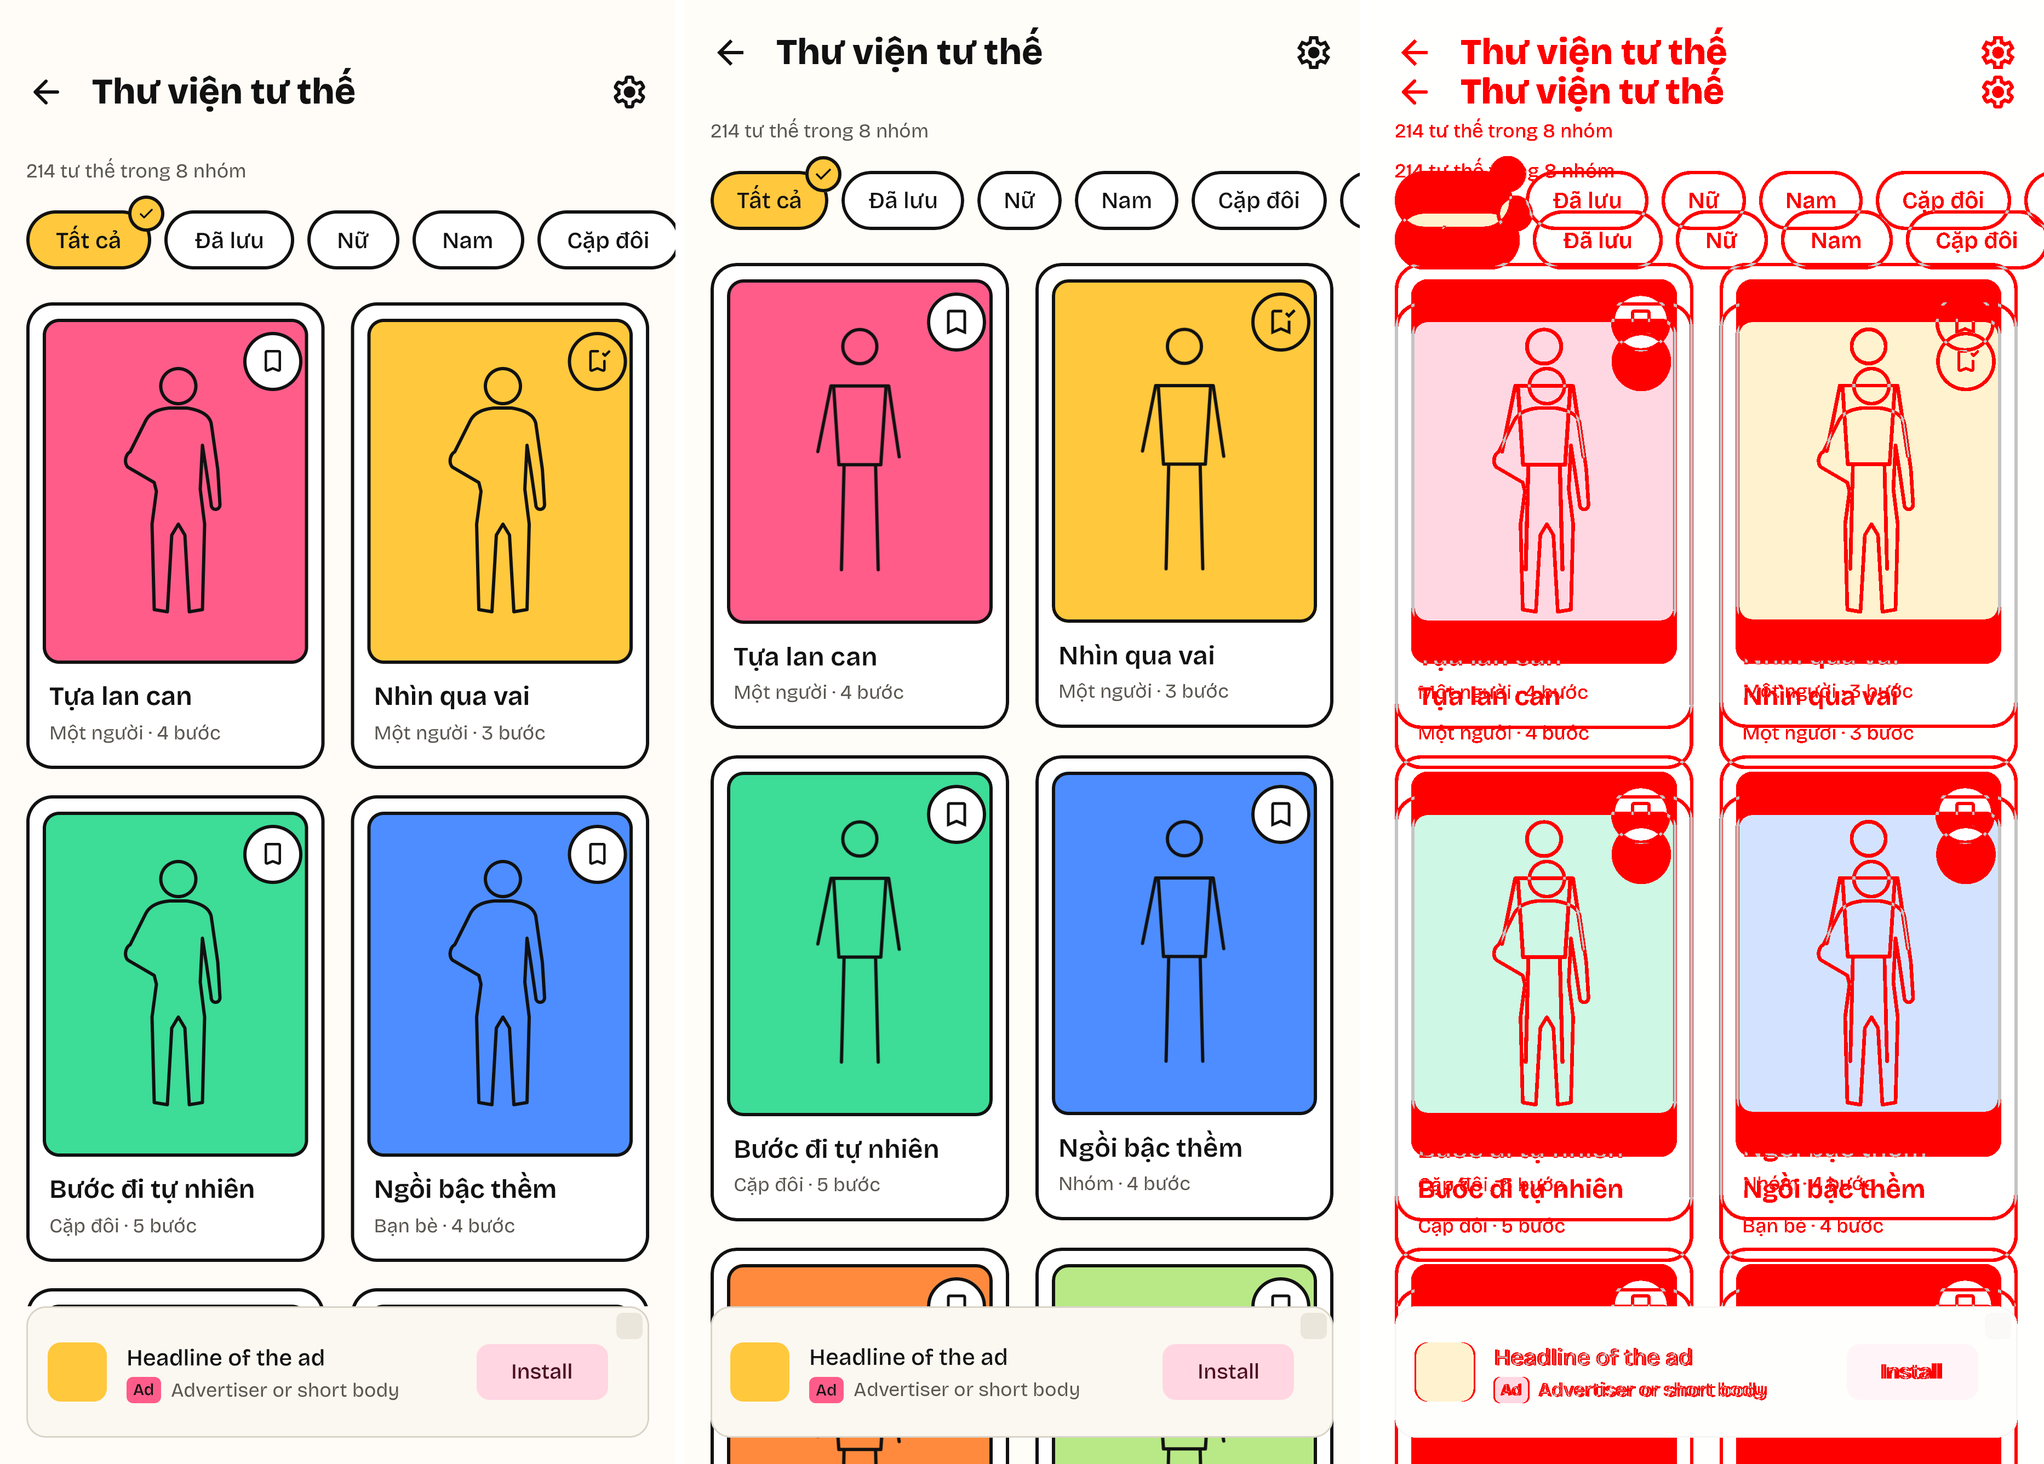
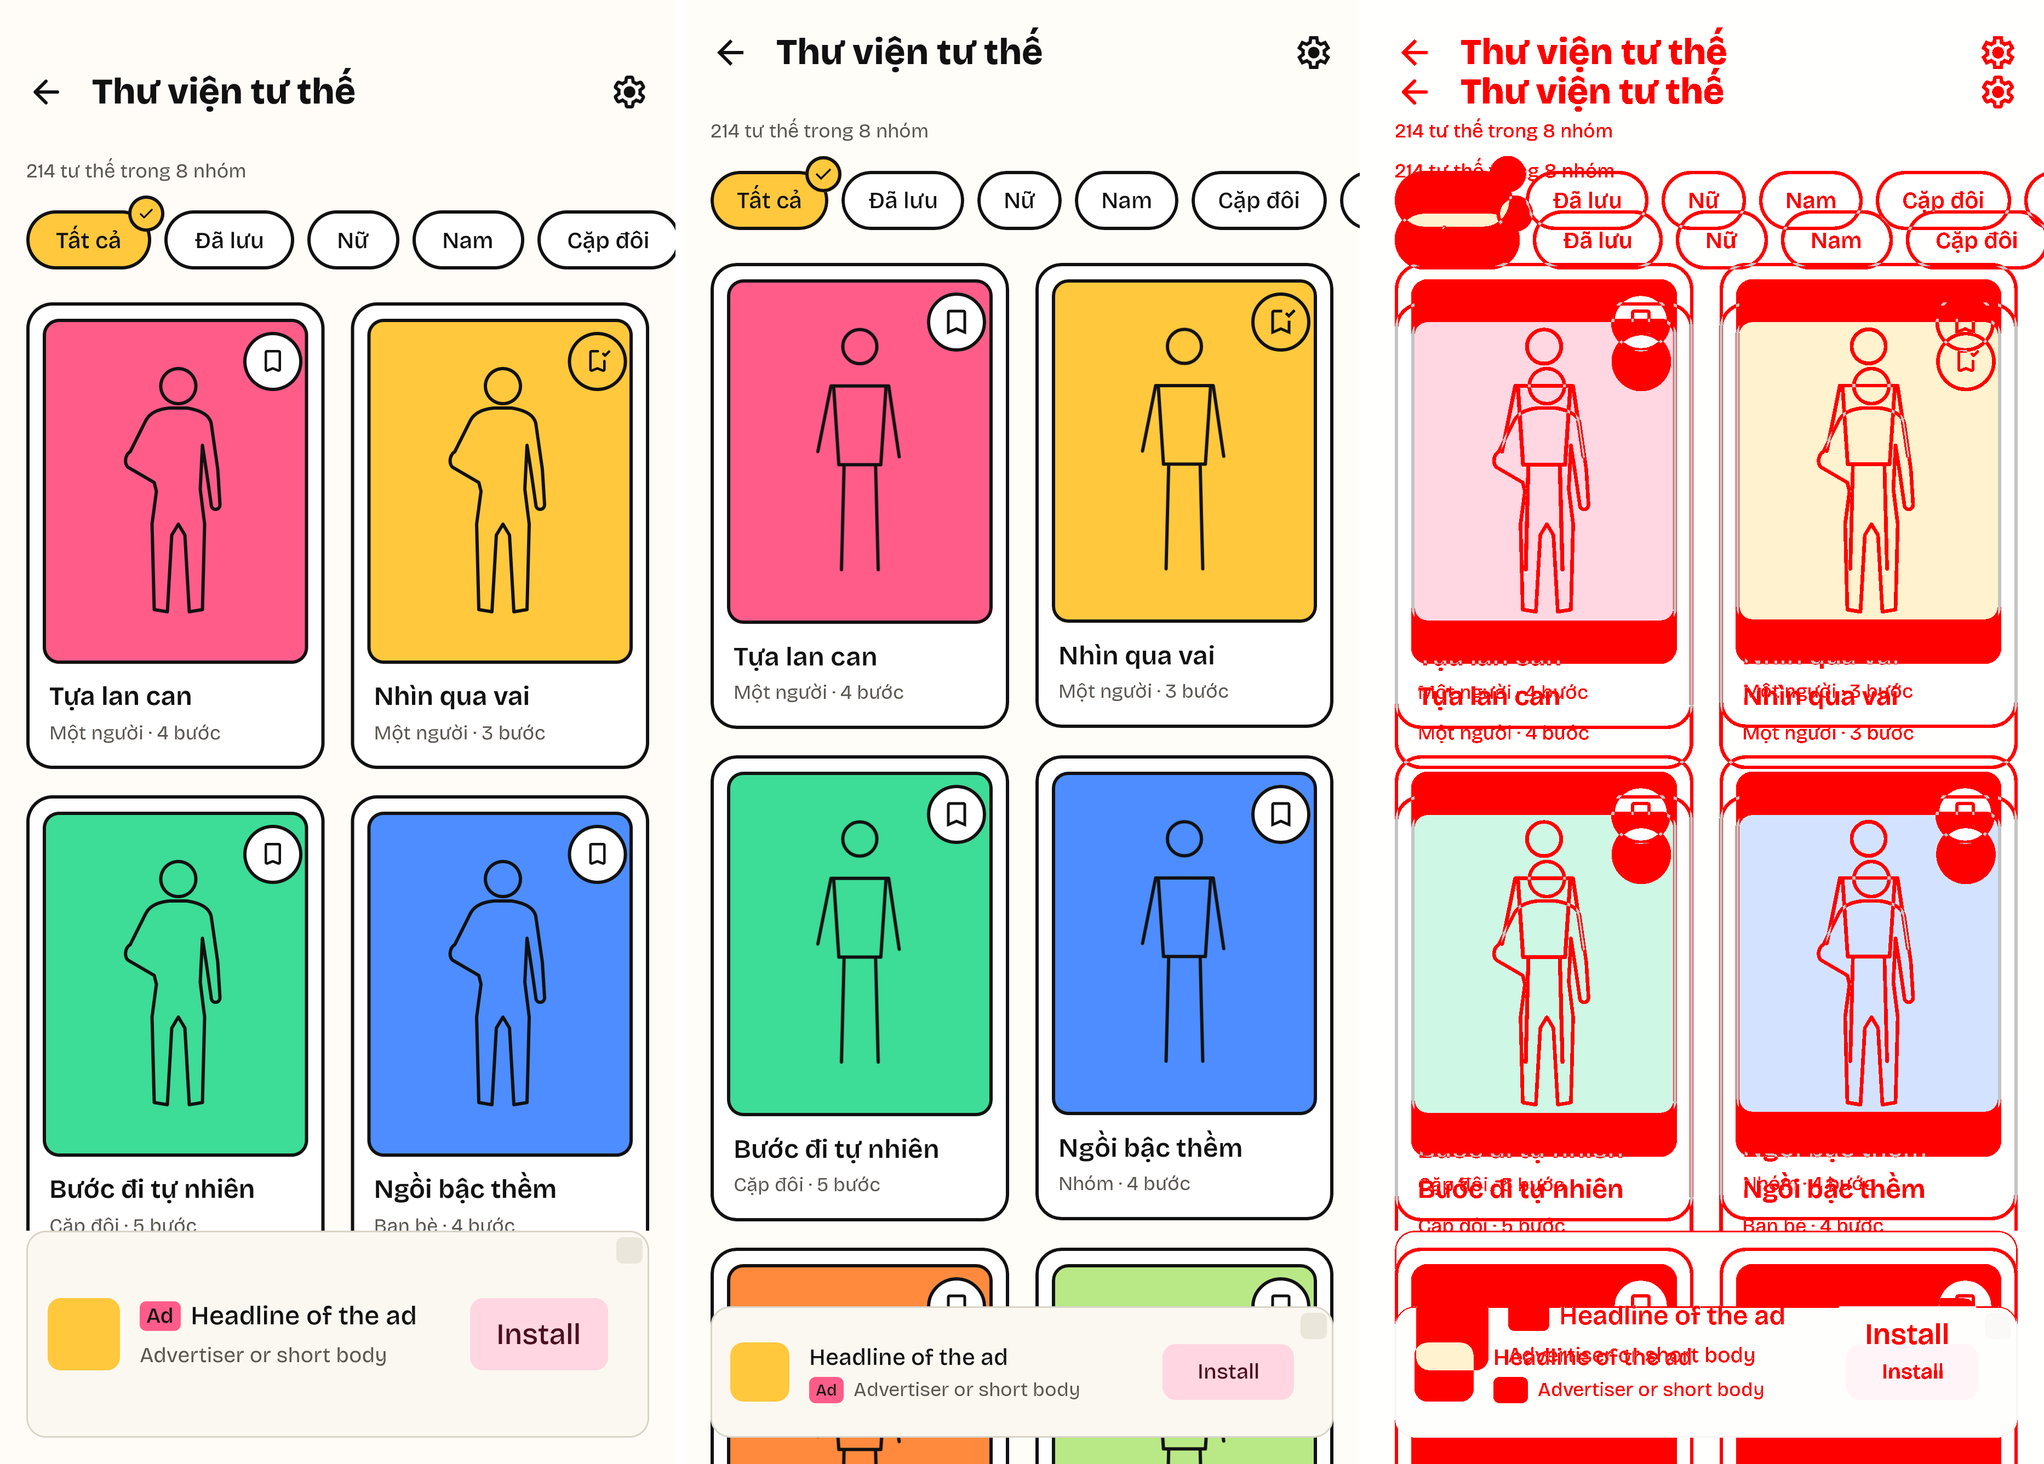
Thiết kế trạng thái ad theo thẻ native nhỏ mới của khung (T-098)
Component NativeAdSmall trên Figma theo Native/Small của dự án mẫu (khe 126 dp,
200 dp khi mở gập); xuất lại 8 frame ad của poses, settings, camera; README và
review/ cập nhật; Nhật duyệt.

diff --git a/docs/features/poses/design/README.md b/docs/features/poses/design/README.md
@@ -6,7 +6,7 @@ tool: figma
 link: https://www.figma.com/design/ZTXse6375eT3KXDUJPBTpe/?node-id=20-23
 designer: AI (Claude), Nhật
 approved_by: Nhật
-approved_at: 2026-10-31
+approved_at: 2026-11-16
 ---
 
 # THIẾT KẾ: THƯ VIỆN TƯ THẾ VÀ CHI TIẾT TƯ THẾ
@@ -37,7 +37,7 @@ Hộp thoại mất mạng thuộc gói `network`.
 
 **Frame hộp thoại mở khóa.** Khung 411 x 891 (để `scripts/figma-export.py` xuất được), nền `background` trơn, chỉ có thẻ hộp thoại ở giữa: không vẽ màn phía sau, không lớp mờ, giống ảnh chuẩn `RewardedAdDialog_default_*` của `:core:ads`. Thẻ thật rộng 312, cao 288, ở (50, 302). Tên frame có `Screen` (`PoseUnlockDialogScreen_*`, như `NetworkDialogScreen_*`) vì script chỉ nhận tên dạng `<Ten>Screen_<trạng thái>_<light|dark>`; plan T-086 đề xuất `PoseUnlockDialog_default_*`, nên plan đổi tên ảnh chuẩn theo.
 
-Từ T-079 (câu hỏi 5 của spec, 2026-10-30), trạng thái `ad` vẽ thanh đáy native nhỏ của khung thay banner 320 x 50. `PosesScreen_ad-collection_light` là lưới cuộn tới tư thế thứ 7: hàng thứ năm có ô quảng cáo (sau 8 tư thế) và tư thế thứ 9; frame này không vẽ thanh đáy, để thấy riêng thẻ quảng cáo cạnh thẻ tư thế. Tên tư thế trên frame này chỉ để minh họa.
+Thiết kế trạng thái `ad` vẽ lại ngày 2026-11-16 theo thẻ native nhỏ mới của khung (component `Native/Small` của dự án mẫu): khe 126 ở khung chuẩn thay khe 80; Nhật duyệt trong phiên ("Duyệt"). Từ T-079 (câu hỏi 5 của spec, 2026-10-30), trạng thái `ad` vẽ thanh đáy native nhỏ của khung thay banner 320 x 50. `PosesScreen_ad-collection_light` là lưới cuộn tới tư thế thứ 7: hàng thứ năm có ô quảng cáo (sau 8 tư thế) và tư thế thứ 9; frame này không vẽ thanh đáy, để thấy riêng thẻ quảng cáo cạnh thẻ tư thế. Tên tư thế trên frame này chỉ để minh họa.
 
 ## 2. Bảng chữ
 
@@ -84,7 +84,7 @@ Loại tư thế: Một người, Cặp đôi, Nhóm. Khung hình: Toàn thân, 
 | Các bước | `Row`: số trong vòng 28 và chữ | Vòng `secondaryContainer`, viền `outline` | `labelLarge`, `bodyMedium` | Cách nhau `Spacing.sm` |
 | Lỗi hay gặp | `Row`: icon `warning` và chữ | `tertiaryContainer`, `onTertiaryContainer`, viền `outline` | `titleSmall`, `bodyMedium` | Lề trong `Spacing.md`, bo `card` |
 | Thanh nút đáy ở chi tiết | Đường kẻ 2 và `PrimaryButton` `photo_camera` | Đường kẻ `outlineVariant`; nền `background` | | Cao 96; nút rộng hết trừ lề `Spacing.md` |
-| Thanh đáy native | `BottomAdBarScaffold` của `:core:ads` (component Figma `NativeAdSmall`, theo `NativeAdCard` cỡ `SMALL`) | Theo khung: nền `surfaceContainerLow`, viền `outlineVariant` 1, icon `secondaryContainer`, nhãn "Ad" `tertiary`, nút `tertiaryContainer` | Theo khung | Khe 80, cách mép trái, phải, đáy `Spacing.md`; nội dung chừa 96 ở đáy |
+| Thanh đáy native | `BottomAdBarScaffold` của `:core:ads` (component Figma `NativeAdSmall`, theo `NativeAdCard` cỡ `SMALL`) | Theo khung: nền `surfaceContainerLow`, viền `outlineVariant` 1, icon `secondaryContainer`, nhãn "Ad" `tertiary`, nút `tertiaryContainer` | Theo khung | Khe cao theo cạnh ngắn của cửa sổ (theo khung, `docs/ops/ads-business-rules.md`, D-02): 126 ở khung chuẩn, 200 ở khung mở gập; thẻ: icon 44, nhãn "Ad" 13 sp trước tiêu đề 16 sp một dòng, dòng dưới 13 sp tối đa 2 dòng, CTA cao 44 chữ 18 sp rộng theo chữ; cách mép trái, phải, đáy `Spacing.md`; nội dung chừa 142 ở đáy; thanh nút đáy ở chi tiết nằm ngay trên khe |
 | Ô quảng cáo trong lưới | `itemsWithInListAds` của `:core:ads` (component Figma `NativeAdCard`, theo `NativeAdCard` cỡ `CARD`) | Như thanh đáy; ảnh `surfaceContainer` | Theo khung | Chiếm một ô, cùng cỡ thẻ tư thế; lề trong `Spacing.sm` |
 | Dấu premium | `PremiumBadge` (mới, `:core:designsystem`; component Figma `PremiumBadge`, ba cỡ) | Nền `tertiaryContainer`, viền `outline` `Stroke.sticker`, icon `workspace_premium` màu `onTertiaryContainer` | | `Size=Card` 32, icon 20: góc trên trái ảnh của thẻ, ở (6, 10) trong ảnh, tâm đối xứng nút lưu 36 qua trục giữa; `Size=Inline` 20, icon 14: đầu dòng phụ của chi tiết, cách chữ `Spacing.sm`; `Size=Thumb` 22, icon 14: ô 64 của camera (gói `camera`). Không làm mờ hay che ảnh |
 | Thẻ tư thế premium | `PoseCard(premium = true)` (Figma `PoseCard`, `Premium=Yes`) | Như thẻ thường | | Dấu và nút lưu cùng lúc được |
@@ -92,7 +92,7 @@ Loại tư thế: Một người, Cặp đôi, Nhóm. Khung hình: Toàn thân, 
 | Hộp thoại mở khóa | `RewardedAdDialog` của `:core:ads` (thẻ `RewardedAdDialogCard`), tiêu đề của app, nội dung `PremiumUnlockContent` (mới, `:core:designsystem`); component Figma `PremiumUnlockDialog` vẽ lại thẻ của khung | Thẻ `surfaceContainerHigh`; tiêu đề, tên `onSurface`; lời `onSurfaceVariant`; nút "Xem quảng cáo" `primary`, `onPrimary`; "Để sau" `onSurfaceVariant` | `headlineSmall`; tên `titleMedium`; lời `bodyMedium`; nút `labelLarge` | Theo khung: rộng tối đa 312, bo 28 (`shapes.extraLarge`), lề `Spacing.lg`, các phần cách `Spacing.md`; nút 56 bo 28; nút chữ 40; hai nút cách `Spacing.sm`. Nội dung của app: tên và lời cách `Spacing.sm` |
 
 - **Thành phần mới cần thêm vào hệ thống thiết kế:** `PoseCard`, `PoseCardSkeleton`, `StickerChip`, `SelectedBadge`, `StateMessage` (xem `sticker.md`, mục 4). Tư thế premium (T-086): `PremiumBadge` (mới), `PremiumUnlockContent` (mới), tham số `premium` của `PoseCard` và `PoseThumb`; thay đổi module core, rủi ro cao. Giá trị icon 20, 14 và cỡ vòng 32, 22, 20 là số của dấu, `context/` ghi kiểu chữ icon "ngoài hệ thống" như các icon khác.
-- **Component quảng cáo trên Figma:** `NativeAdSmall`, `NativeAdCard` (trang Design system, cạnh `AdSlot`) chỉ vẽ lại giao diện của khung `:core:ads` để đặt vào màn hình; không phải thành phần mới của app. Bo góc 12, bo ảnh và nút 8, khoảng cách 12, cỡ chữ 13 và 10 là số của khung (`NativeAdDimens`), `context/` ghi "ngoài hệ thống".
+- **Component quảng cáo trên Figma:** `NativeAdSmall`, `NativeAdCard` (trang Design system, cạnh `AdSlot`) chỉ vẽ lại giao diện của khung `:core:ads` để đặt vào màn hình; không phải thành phần mới của app. Bo góc 12, bo ảnh và nút 8, khoảng cách 12, cỡ chữ 13, 16 và 18 của thẻ native nhỏ là số của khung (`NativeAdDimens`), `context/` ghi "ngoài hệ thống".
 
 **Máy gập mở ra (673 x 841).** Thư viện: 3 cột. Chi tiết: ảnh 315 x 440 bên trái; cột phải rộng 310 có dòng phụ, các bước, lỗi hay gặp; thanh nút đáy chỉ ở cột phải.
 

diff --git a/docs/features/camera/design/README.md b/docs/features/camera/design/README.md
@@ -6,7 +6,7 @@ tool: figma
 link: https://www.figma.com/design/ZTXse6375eT3KXDUJPBTpe/?node-id=16-24
 designer: AI (Claude), Nhật
 approved_by: Nhật
-approved_at: 2026-10-31
+approved_at: 2026-11-16
 ---
 
 # THIẾT KẾ: CAMERA VÀ MÀN XEM LẠI
@@ -103,7 +103,7 @@ Dấu ba chấm là một ký tự (`…`).
 | Xem lại: nút chính | `PrimaryButton` `download` | `secondary` (tối: trắng), `onSecondary` | | Rộng hết, cách đáy `Spacing.lg` |
 | Xem lại: lưu lỗi | `Snackbar` | `inverseSurface`, `inverseOnSurface`, `inversePrimary` | | Trên nút chính `Spacing.md` |
 | Xem lại: hỏi bỏ ảnh | `ConfirmDialog` trên lớp mờ 50% | `surface`, viền `outline` | | Rộng 331 |
-| Xem lại: thanh đáy native | `BottomAdBarScaffold` của `:core:ads` (component Figma `NativeAdSmall`, theo `NativeAdCard` cỡ `SMALL`); không có lớp native thu gọn nổi (spec ads, câu 19, ý e) | Theo khung, chế độ tối: nền `surfaceContainerLow`, viền `outlineVariant` 1, icon `secondaryContainer`, nhãn "Ad" `tertiary`, nút `tertiaryContainer` | Theo khung | Khe 80, cách mép trái, phải, đáy `Spacing.md`; nội dung chừa 96 ở đáy. Điện thoại: ảnh giữ 379 x 505 và hàng nút phụ giữ chỗ như khi không có thanh (còn đủ chỗ ở khung chuẩn), chỉ nút chính dời lên 96; khi màn có thêm nội dung (thông báo lưu lỗi, nút "Mở cài đặt") và ở khung thấp, ảnh co lại theo chỗ còn lại, giữ 3:4; số đo thật ở mục 4 của plan T-094 (Nhật chọn ngày 2026-11-13, theo bố cục có sẵn của màn). Gập mở: thanh rộng hết (641) dưới cả ảnh và cột phải; ảnh giữ 450 x 600, nút chính dời lên, cách thanh 20 (như điện thoại: lề dưới của nút chính trong code; frame vẽ 16) |
+| Xem lại: thanh đáy native | `BottomAdBarScaffold` của `:core:ads` (component Figma `NativeAdSmall`, theo `NativeAdCard` cỡ `SMALL`); không có lớp native thu gọn nổi (spec ads, câu 19, ý e) | Theo khung, chế độ tối: nền `surfaceContainerLow`, viền `outlineVariant` 1, icon `secondaryContainer`, nhãn "Ad" `tertiary`, nút `tertiaryContainer` | Theo khung | Khe cao theo cạnh ngắn của cửa sổ (theo khung, `docs/ops/ads-business-rules.md`, D-02): 126 ở khung chuẩn, 200 ở khung mở gập; thẻ: icon 44, nhãn "Ad" 13 sp trước tiêu đề 16 sp một dòng, dòng dưới 13 sp tối đa 2 dòng, CTA cao 44 chữ 18 sp rộng theo chữ; cách mép trái, phải, đáy `Spacing.md`; nội dung chừa 142 ở đáy (khung mở gập: 216). Điện thoại: ảnh co lại theo chỗ còn lại, giữ 3:4: 355 x 473 ở khung chuẩn (bố cục có sẵn của màn: ảnh, `Spacing.lg`, hàng nút phụ, `Spacing.md`, nút chính, 20 trên thanh); hàng nút phụ ở y 585, nút chính ở y 669. Gập mở: thanh 641 x 200 rộng hết dưới cả ảnh và cột phải; ảnh 400 x 533, cột phải từ x 432 rộng 225; nút chính cách thanh 20 (lề dưới của nút chính trong code; frame vẽ 16) |
 
 - **Thành phần mới cần thêm vào hệ thống thiết kế:** `CameraIconButton`, `StickerChip`, `SelectedBadge`, `PoseThumb`, `StepCard`, `ZoomControl`, `MatchHint`, `AdjustPanel`, `GridOverlay`, `StateMessage`, `SecondaryButton` (xem `sticker.md`, mục 4).
 
@@ -119,7 +119,9 @@ Dấu ba chấm là một ký tự (`…`).
 
 ## 5. Vị trí quảng cáo
 
-`review_interstitial`: toàn màn hình, hiện khi rời `ReviewScreen` sau khi đã lưu ảnh, trước khi về camera (spec mục 5). `review_bottom` (spec ads, câu 19): thanh đáy native nhỏ ở đáy `ReviewScreen`, dưới mọi nút, ở mọi trạng thái của màn (ảnh `ReviewScreen_ad_*`); ảnh co lại cho vừa phần còn lại, không bị cắt hay che. Khóa tắt, quảng cáo đang tải hay không có thì không chừa khoảng trống (ảnh `default`). Hộp thoại "Bỏ ảnh này?" và thông báo lưu lỗi phủ lên như hôm nay. `is_show_native_bottom` tắt thì khe là banner ở cùng chỗ; không có lớp quảng cáo nổi dù `is_show_native_collap` bật (spec camera, KB-9). Bo góc 12, bo ảnh và nút 8, khoảng cách 12, cỡ chữ 13 và 10 của thẻ là số của khung (`NativeAdDimens`); `context/` ghi "ngoài hệ thống", không làm tròn hay thêm token. Vị trí từng phần lấy theo `context/` của từng frame; nút chính cách thanh 20 ở cả điện thoại lẫn máy gập mở ra (frame máy gập vẽ 16, code giữ 20). Chữ của thẻ là chữ giả của ảnh chuẩn `NativeAdCard`, không vào bảng chữ. Không có vùng quảng cáo nào trên `CameraScreen`.
+Thiết kế trạng thái `ad` vẽ lại ngày 2026-11-16 theo thẻ native nhỏ mới của khung (component `Native/Small` của dự án mẫu): khe 126 ở khung chuẩn thay khe 80; Nhật duyệt trong phiên ("Duyệt").
+
+`review_interstitial`: toàn màn hình, hiện khi rời `ReviewScreen` sau khi đã lưu ảnh, trước khi về camera (spec mục 5). `review_bottom` (spec ads, câu 19): thanh đáy native nhỏ ở đáy `ReviewScreen`, dưới mọi nút, ở mọi trạng thái của màn (ảnh `ReviewScreen_ad_*`); ảnh co lại cho vừa phần còn lại, không bị cắt hay che. Khóa tắt, quảng cáo đang tải hay không có thì không chừa khoảng trống (ảnh `default`). Hộp thoại "Bỏ ảnh này?" và thông báo lưu lỗi phủ lên như hôm nay. `is_show_native_bottom` tắt thì khe là banner ở cùng chỗ; không có lớp quảng cáo nổi dù `is_show_native_collap` bật (spec camera, KB-9). Bo góc 12, bo ảnh và nút 8, khoảng cách 12, cỡ chữ 13, 16 và 18 của thẻ là số của khung (`NativeAdDimens`); `context/` ghi "ngoài hệ thống", không làm tròn hay thêm token. Vị trí từng phần lấy theo `context/` của từng frame; nút chính cách thanh 20 ở cả điện thoại lẫn máy gập mở ra (frame máy gập vẽ 16, code giữ 20). Chữ của thẻ là chữ giả của ảnh chuẩn `NativeAdCard`, không vào bảng chữ. Không có vùng quảng cáo nào trên `CameraScreen`.
 
 ## 6. Chuyển sang Compose
 

diff --git a/docs/features/poses/design/review/summary.md b/docs/features/poses/design/review/summary.md
@@ -1,7 +1,7 @@
 | Màn hình | Điểm ảnh khác | Ảnh so sánh (thiết kế, thật, khác biệt) |
 | --- | --- | --- |
-| PoseDetailScreen_ad_dark | 14.9% | `PoseDetailScreen_ad_dark_compare.png` |
-| PoseDetailScreen_ad_light | 13.4% | `PoseDetailScreen_ad_light_compare.png` |
+| PoseDetailScreen_ad_dark | 23.6% | `PoseDetailScreen_ad_dark_compare.png` |
+| PoseDetailScreen_ad_light | 22.6% | `PoseDetailScreen_ad_light_compare.png` |
 | PoseDetailScreen_default_dark | 18.1% | `PoseDetailScreen_default_dark_compare.png` |
 | PoseDetailScreen_default_dark_unfolded | 3.8% | `PoseDetailScreen_default_dark_unfolded_compare.png` |
 | PoseDetailScreen_default_light | 14.5% | `PoseDetailScreen_default_light_compare.png` |
@@ -15,8 +15,8 @@
 | PoseUnlockDialogScreen_default_dark | 2.1% | `PoseUnlockDialogScreen_default_dark_compare.png` |
 | PoseUnlockDialogScreen_default_light | 2.1% | `PoseUnlockDialogScreen_default_light_compare.png` |
 | PosesScreen_ad-collection_light | 19.9% | `PosesScreen_ad-collection_light_compare.png` |
-| PosesScreen_ad_dark | 22.4% | `PosesScreen_ad_dark_compare.png` |
-| PosesScreen_ad_light | 22.5% | `PosesScreen_ad_light_compare.png` |
+| PosesScreen_ad_dark | 24.0% | `PosesScreen_ad_dark_compare.png` |
+| PosesScreen_ad_light | 23.3% | `PosesScreen_ad_light_compare.png` |
 | PosesScreen_default_dark | 22.1% | `PosesScreen_default_dark_compare.png` |
 | PosesScreen_default_dark_unfolded | 23.4% | `PosesScreen_default_dark_unfolded_compare.png` |
 | PosesScreen_default_light | 22.1% | `PosesScreen_default_light_compare.png` |
